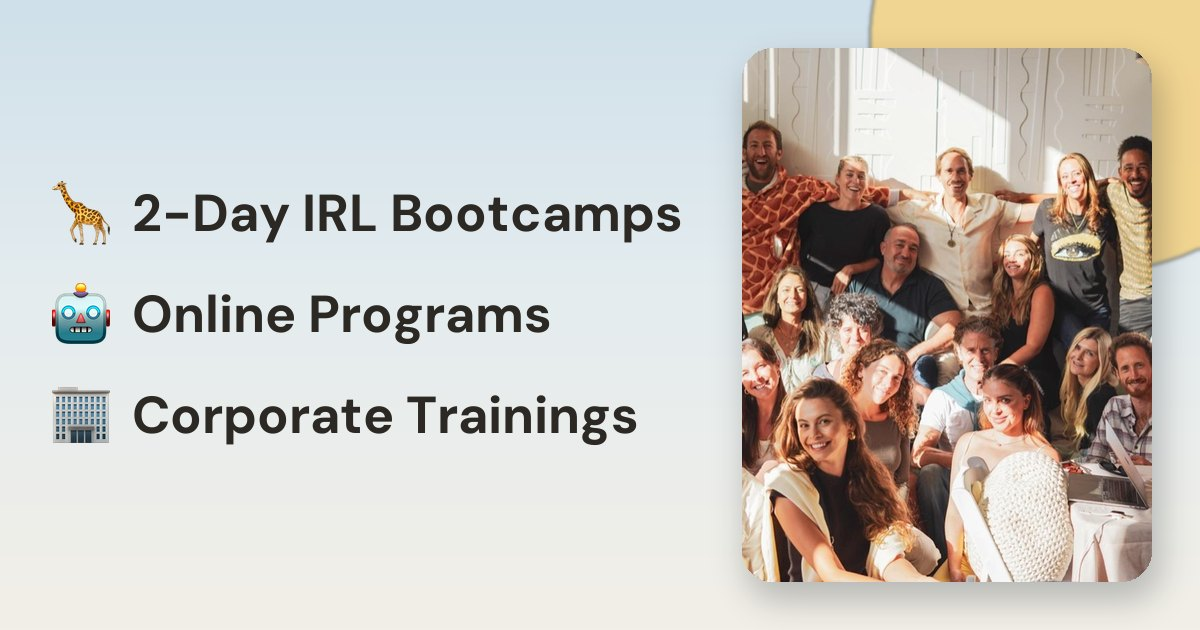
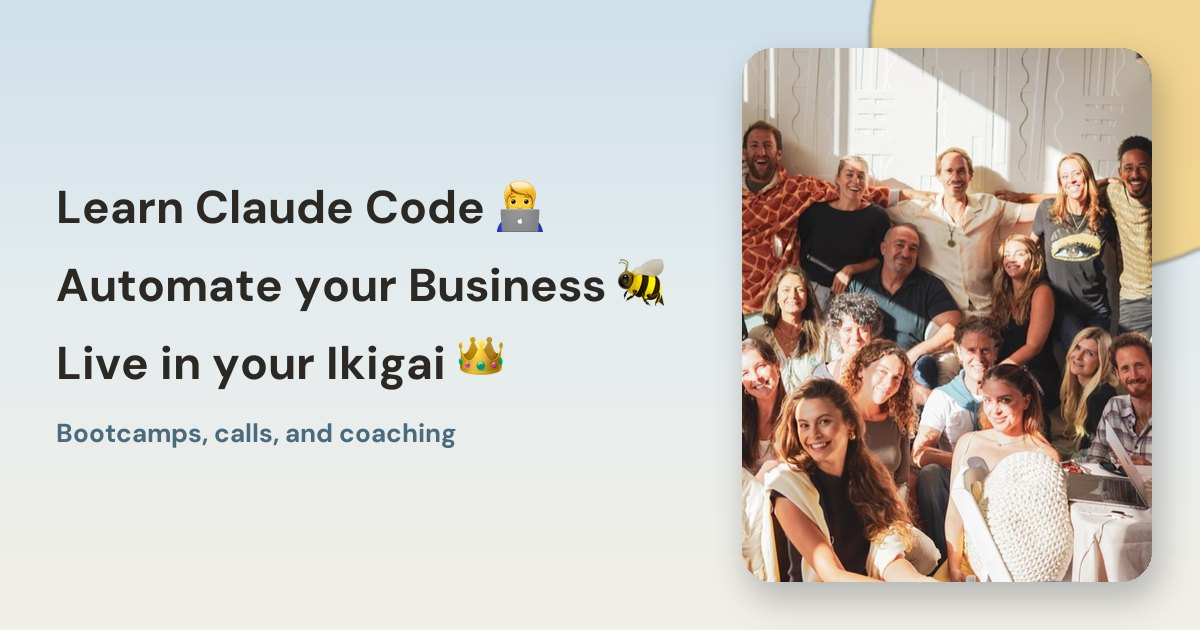
ai: card and preview copy from the new Instagram bio (Claude Code for Entrepreneurs)

Changed region(s): [[0.0308, 0.2714, 0.5858, 0.7238]]

diff --git a/ai/index.html b/ai/index.html
@@ -3,23 +3,23 @@
 <head>
 <meta charset="utf-8">
 <meta name="viewport" content="width=device-width, initial-scale=1">
-<title>The AI School for Entrepreneurs · The Oasis</title>
+<title>Claude Code for Entrepreneurs · The Oasis</title>
 
 <meta property="og:type" content="website">
 <meta property="og:site_name" content="The Oasis">
-<meta property="og:title" content="The AI School for Entrepreneurs">
-<meta property="og:description" content="🦒 2-Day IRL Bootcamps · 🤖 Online Programs · 🏢 Corporate Trainings">
+<meta property="og:title" content="Claude Code for Entrepreneurs">
+<meta property="og:description" content="Learn Claude Code 🧑💻 · Automate your Business 🐝 · Live in your Ikigai 👑 · Bootcamps, calls, and coaching">
 <meta property="og:url" content="https://grateful.gg/ai/">
-<meta property="og:image" content="https://grateful.gg/ai/cover.jpg?v=ig2">
-<meta property="og:image:secure_url" content="https://grateful.gg/ai/cover.jpg?v=ig2">
+<meta property="og:image" content="https://grateful.gg/ai/cover.jpg?v=ig3">
+<meta property="og:image:secure_url" content="https://grateful.gg/ai/cover.jpg?v=ig3">
 <meta property="og:image:type" content="image/jpeg">
 <meta property="og:image:width" content="1200">
 <meta property="og:image:height" content="630">
-<meta property="og:image:alt" content="The AI School for Entrepreneurs: 2-Day IRL Bootcamps, Online Programs, Corporate Trainings.">
+<meta property="og:image:alt" content="Claude Code for Entrepreneurs. Learn Claude Code, automate your business, live in your Ikigai. Bootcamps, calls, and coaching.">
 <meta name="twitter:card" content="summary_large_image">
-<meta name="twitter:title" content="The AI School for Entrepreneurs">
-<meta name="twitter:description" content="🦒 2-Day IRL Bootcamps · 🤖 Online Programs · 🏢 Corporate Trainings">
-<meta name="twitter:image" content="https://grateful.gg/ai/cover.jpg?v=ig2">
+<meta name="twitter:title" content="Claude Code for Entrepreneurs">
+<meta name="twitter:description" content="Learn Claude Code 🧑💻 · Automate your Business 🐝 · Live in your Ikigai 👑 · Bootcamps, calls, and coaching">
+<meta name="twitter:image" content="https://grateful.gg/ai/cover.jpg?v=ig3">
 
 <!-- Humans go to the real page; crawlers read the tags above first. The card
      below only shows if the redirect is blocked (in-app browsers, JS off). -->
@@ -46,8 +46,8 @@
 </head>
 <body>
   <main class="card">
-    <img src="https://grateful.gg/ai/cover.jpg?v=ig2" alt="The AI School for Entrepreneurs: 2-Day IRL Bootcamps, Online Programs, Corporate Trainings." width="1200" height="630">
-    <div class="b"><h1>The AI School for Entrepreneurs</h1><p>🦒 2-Day IRL Bootcamps · 🤖 Online Programs · 🏢 Corporate Trainings</p>
+    <img src="https://grateful.gg/ai/cover.jpg?v=ig3" alt="Claude Code for Entrepreneurs. Learn Claude Code, automate your business, live in your Ikigai. Bootcamps, calls, and coaching." width="1200" height="630">
+    <div class="b"><h1>Claude Code for Entrepreneurs</h1><p>Learn Claude Code 🧑💻 · Automate your Business 🐝 · Live in your Ikigai 👑 · Bootcamps, calls, and coaching</p>
     <a class="btn" href="https://app.grateful.gg/ai">Open the event &rarr;</a></div>
   </main>
 </body>
